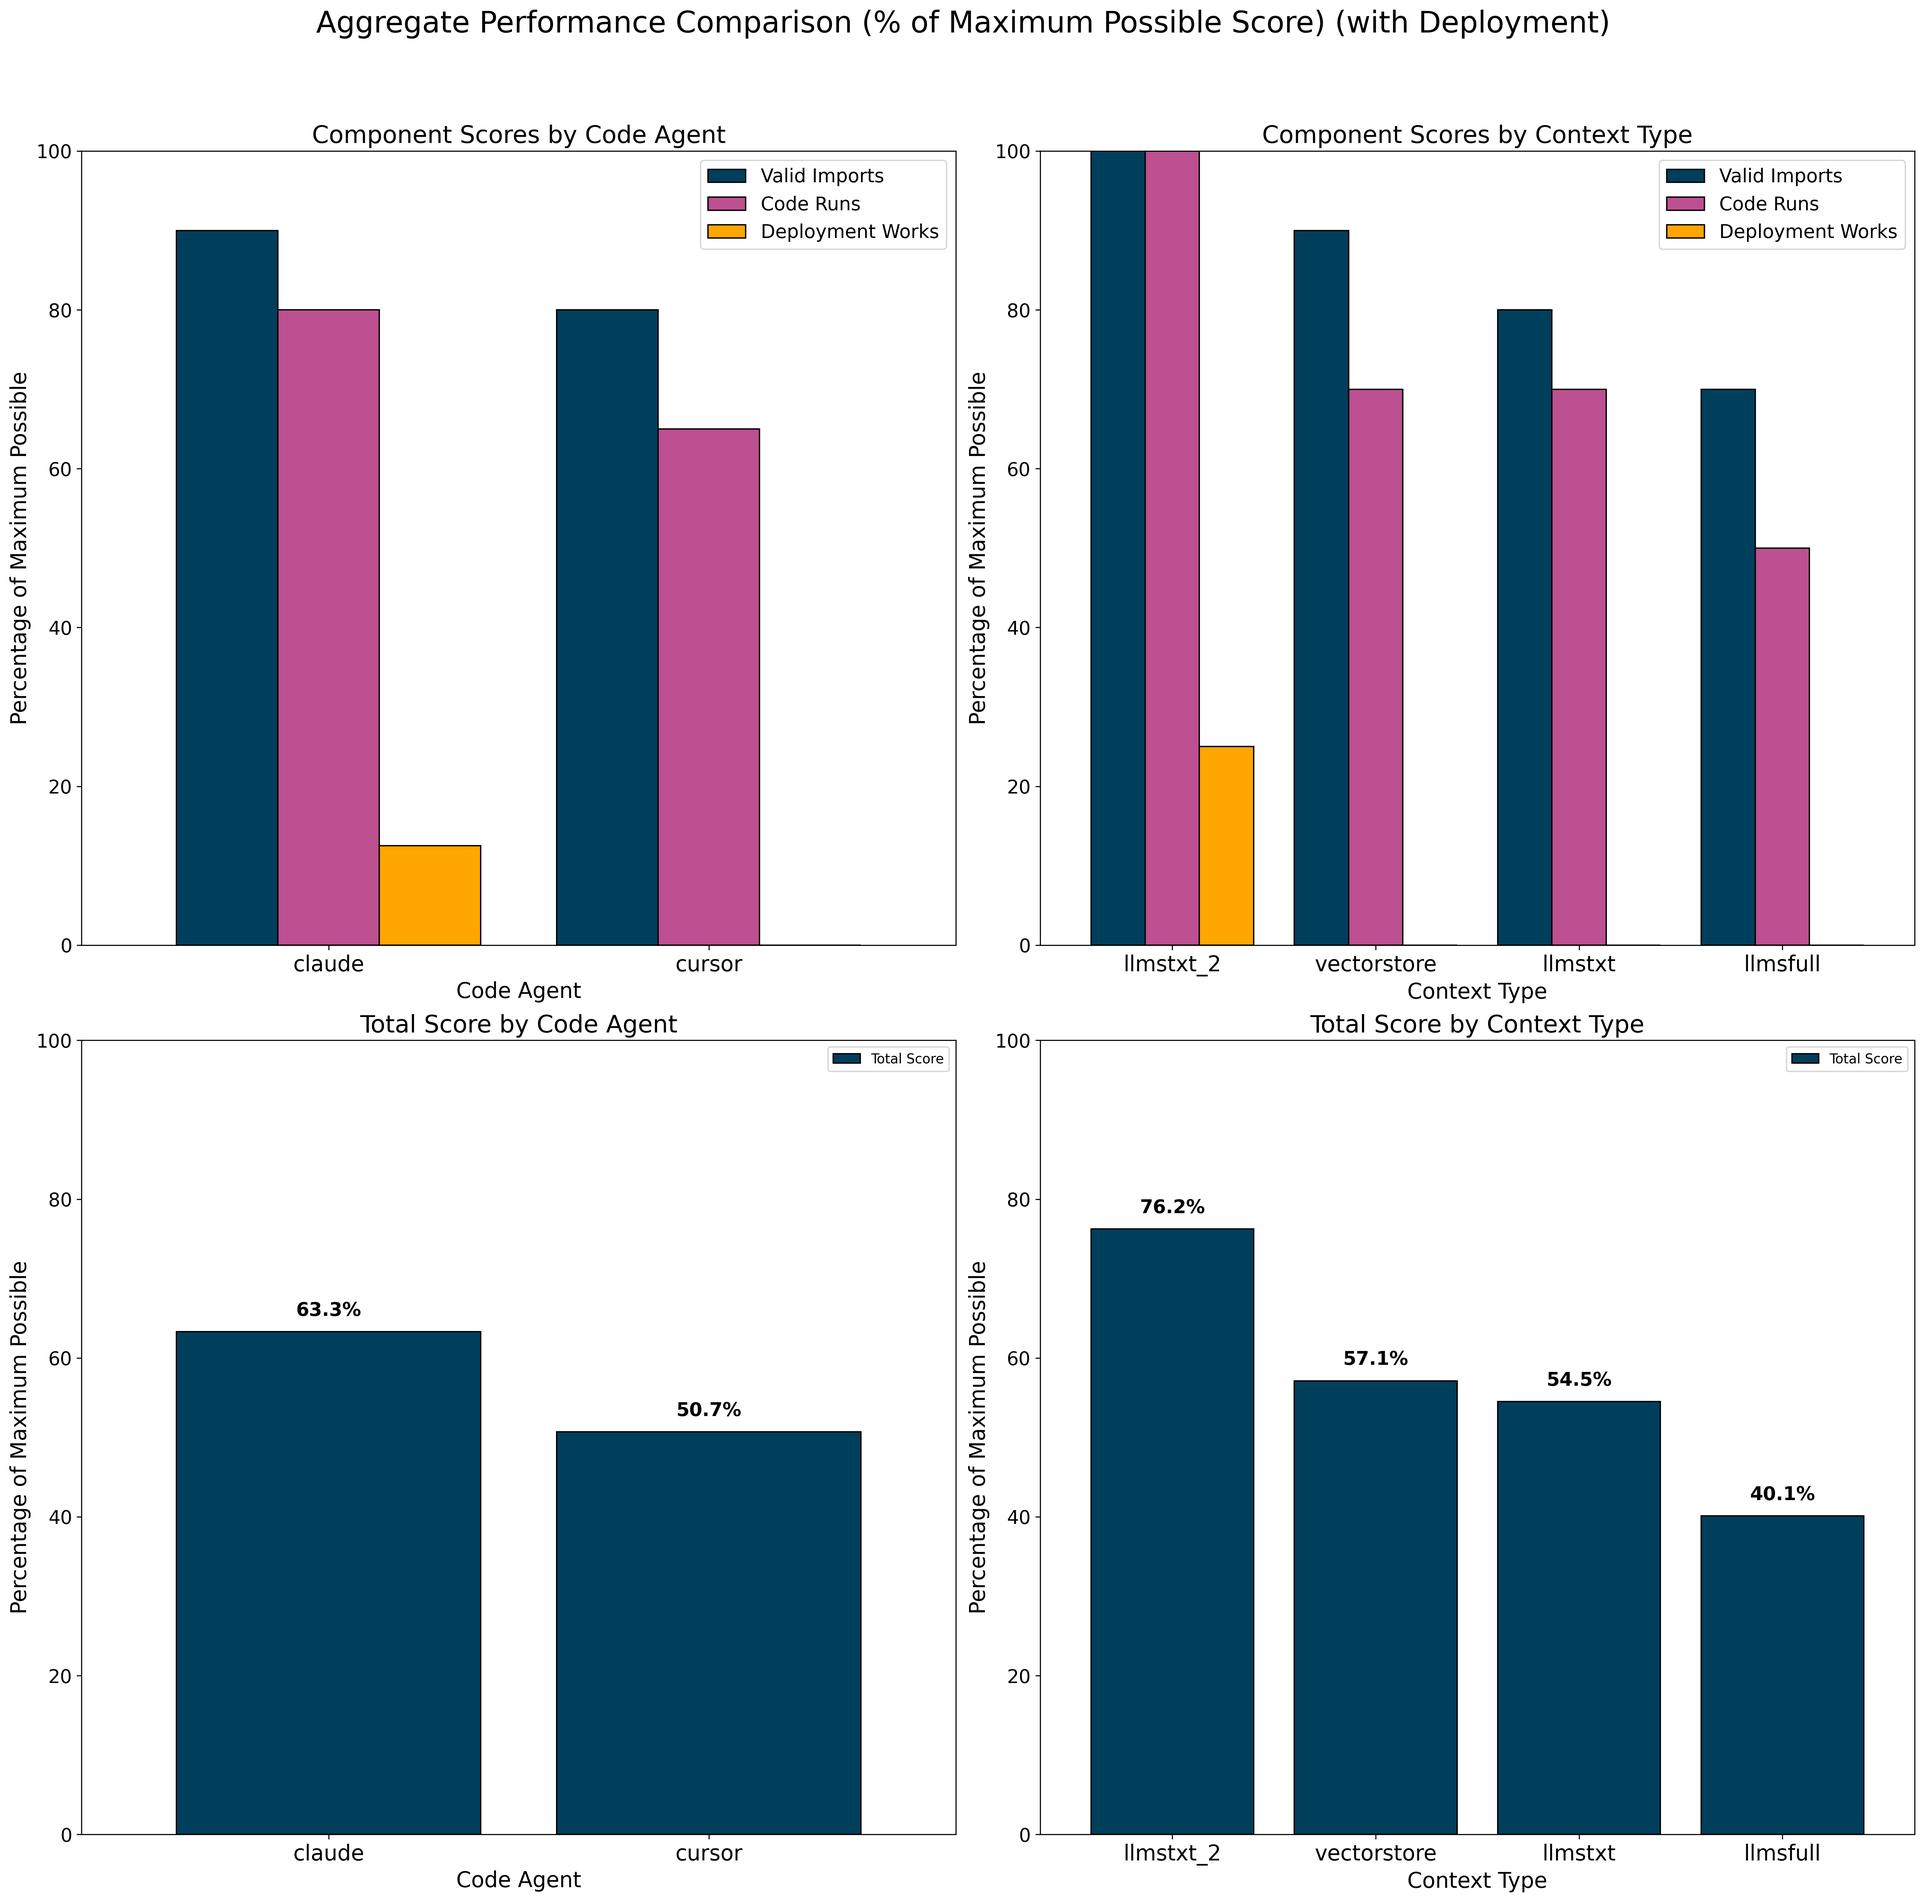
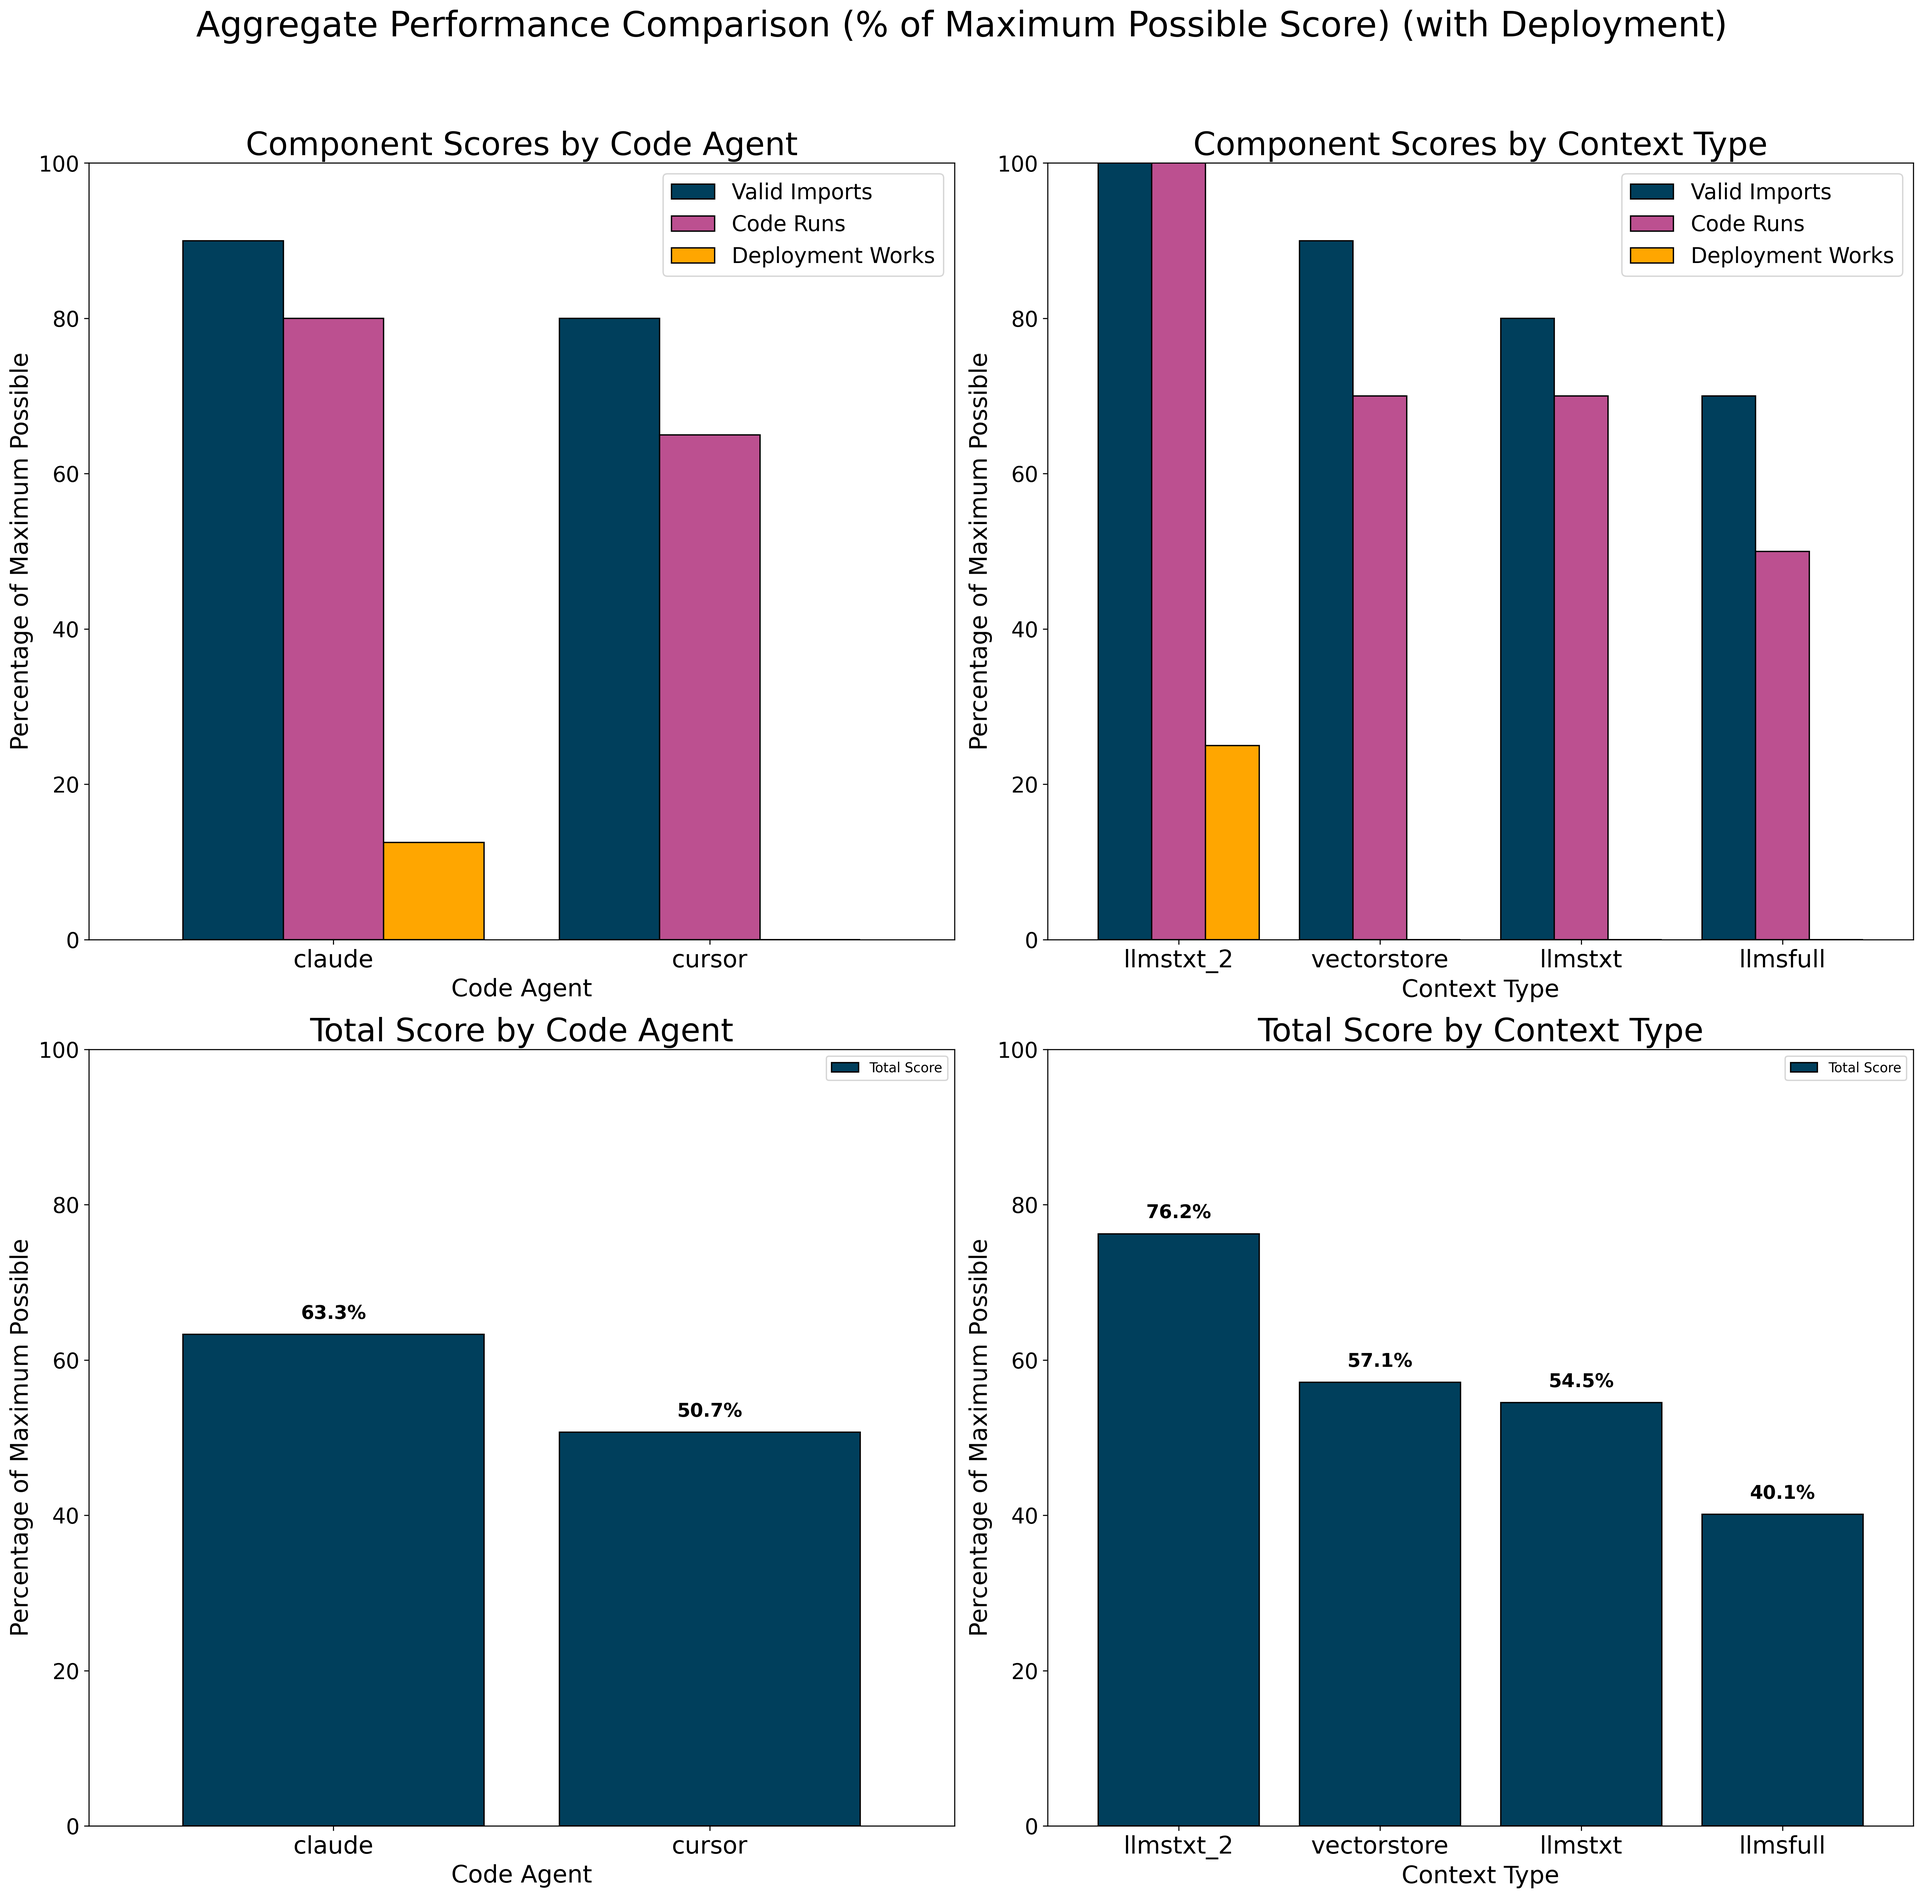
Update README.md

diff --git a/eval/visualize_results.py b/eval/visualize_results.py
@@ -202,6 +202,7 @@ def generate_bar_charts(df, source_file=None, output_dir=None, color_scheme="nav
     Note: This function will always show deployment scores if they are available in the data,
     regardless of the show_deployment flag.
     """
+    
     # Create figure with four subplots (2x2 grid)
     fig, axes = plt.subplots(2, 2, figsize=(20, 20))
     
@@ -224,7 +225,7 @@ def generate_bar_charts(df, source_file=None, output_dir=None, color_scheme="nav
     title = 'Aggregate Performance Comparison (% of Maximum Possible Score)'
     if has_deployment:
         title += ' (with Deployment)'
-    fig.suptitle(title, fontsize=22)
+    fig.suptitle(title, fontsize=26)
     
     # Define metrics to include in preferred order with readable names for legend
     # Start with base metrics that must exist
@@ -322,9 +323,9 @@ def generate_bar_charts(df, source_file=None, output_dir=None, color_scheme="nav
         width=0.8
     )
     
-    ax_top_left.set_title('Component Scores by Code Agent', fontsize=18)
-    ax_top_left.set_ylabel('Percentage of Maximum Possible', fontsize=16)
-    ax_top_left.set_xlabel('Code Agent', fontsize=16)
+    ax_top_left.set_title('Component Scores by Code Agent', fontsize=24)
+    ax_top_left.set_ylabel('Percentage of Maximum Possible', fontsize=18)
+    ax_top_left.set_xlabel('Code Agent', fontsize=18)
     
     # Set y-axis limits to 0-100 for percentage
     ax_top_left.set_ylim(0, 100)
@@ -335,9 +336,9 @@ def generate_bar_charts(df, source_file=None, output_dir=None, color_scheme="nav
     # Update legend with our friendly labels
     handles, labels = ax_top_left.get_legend_handles_labels()
     friendly_labels = [metric_labels[m] for m in labels]
-    ax_top_left.legend(handles, friendly_labels, fontsize=14)
-    plt.setp(ax_top_left.get_xticklabels(), fontsize=16, rotation=0)
-    plt.setp(ax_top_left.get_yticklabels(), fontsize=14)
+    ax_top_left.legend(handles, friendly_labels, fontsize=16)
+    plt.setp(ax_top_left.get_xticklabels(), fontsize=18, rotation=0)
+    plt.setp(ax_top_left.get_yticklabels(), fontsize=16)
     
     # 2. Total Score by Code Agent (bottom left)
     # Sort specifically for the total score plot - highest first
@@ -355,9 +356,9 @@ def generate_bar_charts(df, source_file=None, output_dir=None, color_scheme="nav
         width=0.8
     )
     
-    ax_bottom_left.set_title('Total Score by Code Agent', fontsize=18)
-    ax_bottom_left.set_ylabel('Percentage of Maximum Possible', fontsize=16)
-    ax_bottom_left.set_xlabel('Code Agent', fontsize=16)
+    ax_bottom_left.set_title('Total Score by Code Agent', fontsize=24)
+    ax_bottom_left.set_ylabel('Percentage of Maximum Possible', fontsize=18)
+    ax_bottom_left.set_xlabel('Code Agent', fontsize=18)
     
     # Set y-axis limits to 0-100 for percentage
     ax_bottom_left.set_ylim(0, 100)
@@ -369,8 +370,8 @@ def generate_bar_charts(df, source_file=None, output_dir=None, color_scheme="nav
     for i, v in enumerate(agent_data_total['Total Score']):
         ax_bottom_left.text(i, v + 2, f"{v:.1f}%", ha='center', fontsize=14, fontweight='bold')
     
-    plt.setp(ax_bottom_left.get_xticklabels(), fontsize=16, rotation=0)
-    plt.setp(ax_bottom_left.get_yticklabels(), fontsize=14)
+    plt.setp(ax_bottom_left.get_xticklabels(), fontsize=18, rotation=0)
+    plt.setp(ax_bottom_left.get_yticklabels(), fontsize=16)
     
     # 3. Component Metrics by Context Type (top right)
     context_data = df.groupby(['context_type'])[component_metrics + total_metric].sum().reset_index()
@@ -430,9 +431,9 @@ def generate_bar_charts(df, source_file=None, output_dir=None, color_scheme="nav
         width=0.8
     )
     
-    ax_top_right.set_title('Component Scores by Context Type', fontsize=18)
-    ax_top_right.set_ylabel('Percentage of Maximum Possible', fontsize=16)
-    ax_top_right.set_xlabel('Context Type', fontsize=16)
+    ax_top_right.set_title('Component Scores by Context Type', fontsize=24)
+    ax_top_right.set_ylabel('Percentage of Maximum Possible', fontsize=18)
+    ax_top_right.set_xlabel('Context Type', fontsize=18)
     
     # Set y-axis limits to 0-100 for percentage
     ax_top_right.set_ylim(0, 100)
@@ -443,9 +444,9 @@ def generate_bar_charts(df, source_file=None, output_dir=None, color_scheme="nav
     # Update legend with our friendly labels
     handles, labels = ax_top_right.get_legend_handles_labels()
     friendly_labels = [metric_labels[m] for m in labels]
-    ax_top_right.legend(handles, friendly_labels, fontsize=14)
-    plt.setp(ax_top_right.get_xticklabels(), fontsize=16, rotation=0)
-    plt.setp(ax_top_right.get_yticklabels(), fontsize=14)
+    ax_top_right.legend(handles, friendly_labels, fontsize=16)
+    plt.setp(ax_top_right.get_xticklabels(), fontsize=18, rotation=0)
+    plt.setp(ax_top_right.get_yticklabels(), fontsize=16)
     
     # 4. Total Score by Context Type (bottom right)
     # Sort specifically for the total score plot - highest first
@@ -463,9 +464,9 @@ def generate_bar_charts(df, source_file=None, output_dir=None, color_scheme="nav
         width=0.8
     )
     
-    ax_bottom_right.set_title('Total Score by Context Type', fontsize=18)
-    ax_bottom_right.set_ylabel('Percentage of Maximum Possible', fontsize=16)
-    ax_bottom_right.set_xlabel('Context Type', fontsize=16)
+    ax_bottom_right.set_title('Total Score by Context Type', fontsize=24)
+    ax_bottom_right.set_ylabel('Percentage of Maximum Possible', fontsize=18)
+    ax_bottom_right.set_xlabel('Context Type', fontsize=18)
     
     # Set y-axis limits to 0-100 for percentage
     ax_bottom_right.set_ylim(0, 100)
@@ -477,8 +478,8 @@ def generate_bar_charts(df, source_file=None, output_dir=None, color_scheme="nav
     for i, v in enumerate(context_data_total['Total Score']):
         ax_bottom_right.text(i, v + 2, f"{v:.1f}%", ha='center', fontsize=14, fontweight='bold')
     
-    plt.setp(ax_bottom_right.get_xticklabels(), fontsize=16, rotation=0)
-    plt.setp(ax_bottom_right.get_yticklabels(), fontsize=14)
+    plt.setp(ax_bottom_right.get_xticklabels(), fontsize=18, rotation=0)
+    plt.setp(ax_bottom_right.get_yticklabels(), fontsize=16)
     
     # Save figure
     plt.tight_layout(rect=[0, 0, 1, 0.95])
@@ -655,9 +656,9 @@ def generate_grouped_bar_chart(df, source_file=None, output_dir=None, show_deplo
     
     # Add title and labels
     title = 'A well designed llms.txt results in the best performance'
-    plt.title(title, fontsize=20)
-    plt.xlabel('IDE / Code Agent', fontsize=16)
-    plt.ylabel('Score', fontsize=16)
+    plt.title(title, fontsize=26)
+    plt.xlabel('IDE / Code Agent', fontsize=24)  # Much larger axis label
+    plt.ylabel('Score', fontsize=24)  # Much larger axis label
     
     # Note: We already renamed the indices when creating the pivot table
     # so no need to rename them again here
@@ -674,8 +675,8 @@ def generate_grouped_bar_chart(df, source_file=None, output_dir=None, show_deplo
     plt.legend(handles, updated_labels, title='Context Type', fontsize=14, title_fontsize=16)
     
     # Format text and labels
-    plt.xticks(fontsize=16, rotation=0)  # Larger horizontal labels
-    plt.yticks(fontsize=14)
+    plt.xticks(fontsize=24, rotation=0)  # Much larger tick labels
+    plt.yticks(fontsize=20)  # Larger tick labels
     
     # No need to rename tick labels as we've already renamed the index
     
@@ -687,7 +688,7 @@ def generate_grouped_bar_chart(df, source_file=None, output_dir=None, show_deplo
                 # Calculate the bar position
                 x_pos = i + (j - len(contexts)/2 + 0.5) * (0.8 / len(contexts))
                 plt.text(x_pos, value + 2, f"{value:.1f}%", 
-                         ha='center', va='bottom', fontsize=12, fontweight='bold')
+                         ha='center', va='bottom', fontsize=18, fontweight='bold')
             except KeyError:
                 pass  # Skip if combination doesn't exist
     
@@ -844,9 +845,9 @@ def generate_component_grouped_bar_chart(df, source_file=None, output_dir=None, 
         )
         
         # Add title and labels
-        ax.set_title(f'{metric_titles.get(metric, metric)}', fontsize=18)
-        ax.set_xlabel('IDE / Code Agent', fontsize=14)
-        ax.set_ylabel('Percentage of Maximum Possible', fontsize=14)
+        ax.set_title(f'{metric_titles.get(metric, metric)}', fontsize=24)
+        ax.set_xlabel('IDE / Code Agent', fontsize=24)  # Much larger axis label
+        ax.set_ylabel('Percentage of Maximum Possible', fontsize=24)  # Much larger axis label
         
         # Set y-axis limits to 0-100 for percentage
         ax.set_ylim(0, 100)
@@ -858,13 +859,13 @@ def generate_component_grouped_bar_chart(df, source_file=None, output_dir=None, 
         if i == 0:
             handles, labels = ax.get_legend_handles_labels()
             updated_labels = [context_display_names.get(label, label) for label in labels]
-            ax.legend(handles, updated_labels, title='Context Type', fontsize=12, title_fontsize=14)
+            ax.legend(handles, updated_labels, title='Context Type', fontsize=16, title_fontsize=18)
         else:
             ax.get_legend().remove()  # Remove redundant legends from other subplots
         
         # Format text and labels
-        ax.tick_params(axis='x', labelsize=16, rotation=0)  # Larger horizontal labels
-        ax.tick_params(axis='y', labelsize=12)
+        ax.tick_params(axis='x', labelsize=24, rotation=0)  # Much larger tick labels
+        ax.tick_params(axis='y', labelsize=20)  # Larger tick labels
         
         # No need to rename tick labels as we've already renamed the index
         
@@ -876,12 +877,12 @@ def generate_component_grouped_bar_chart(df, source_file=None, output_dir=None, 
                     # Calculate the bar position
                     x_pos = j + (k - len(contexts)/2 + 0.5) * (0.8 / len(contexts))
                     ax.text(x_pos, value + 2, f"{value:.1f}%", 
-                             ha='center', va='bottom', fontsize=10, fontweight='bold')
+                             ha='center', va='bottom', fontsize=16, fontweight='bold')
                 except KeyError:
                     pass  # Skip if combination doesn't exist
     
     # Add overall title
-    fig.suptitle('Component Scores by IDE and Context Type', fontsize=22, y=0.98)
+    fig.suptitle('Component Scores by IDE and Context Type', fontsize=26, y=0.98)
     
     # Save figure
     filename_base = 'component_grouped_bar_chart'

diff --git a/README.md b/README.md
@@ -1,4 +1,4 @@
-# Vibe Coding Benchmark
+# Vibe Code Benchmark
 
 ## Overview
 
@@ -19,6 +19,8 @@ Code agents like [Cursor](https://www.cursor.com/) have transformed how many of 
 3. **Optimized llms.txt**: Use an [LLM to re-write](https://github.com/rlancemartin/llmstxt_architect) the LangGraph `llms.txt` file with clearer, more consistent page descriptions specifically designed for LLMs to understand.
 
 4. **Vector Database**: Build a [vector database](https://github.com/langchain-ai/vibe-code-benchmark/blob/main/context_and_mcp/build_langgraph_context.py) of the LangGraph documentation (8,000 token chunks, k=3 retrieval, using OpenAI `text-embedding-3-large`) with an [MCP server](https://github.com/langchain-ai/vibe-code-benchmark/blob/main/context_and_mcp/langgraph_vectorstore_mcp.py) for semantic search.
+
+![context](https://github.com/user-attachments/assets/f982e785-4229-40a3-a891-9745e984ec5f)
 
 ## LangGraph Challenges
 
